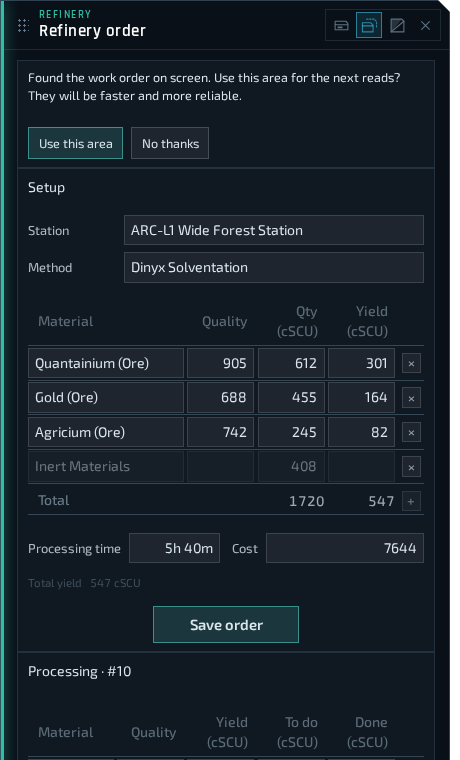
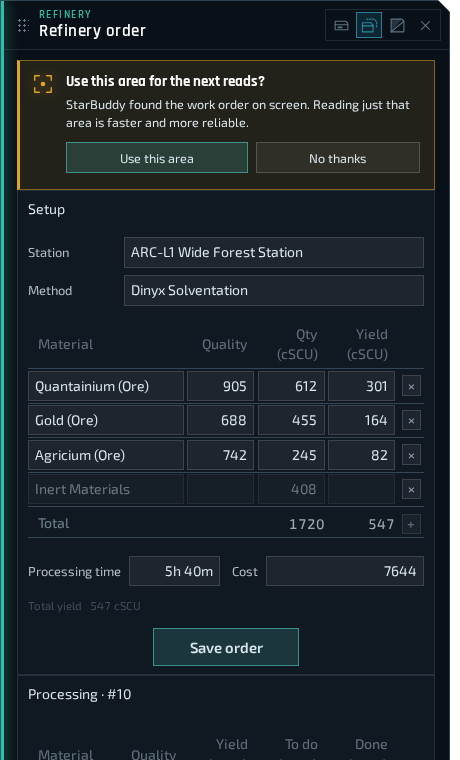
Help: the refinery area offer and guide as callout cards
Re-shot both refinery area screenshots (en+da) and named the cards and
their headings in Screen reading. The shot script no longer needs the
demo seed for client-only shots.

Claude-Session: https://claude.ai/code/session_01N8m5xeVdG9FyChw6HwAHkV

diff --git a/frontend/src/help/content/da/client-screen-reading.md b/frontend/src/help/content/da/client-screen-reading.md
@@ -22,15 +22,15 @@ På Windows viser en gul ramme om spillet, at vinduet bliver optaget. Windows 11
 
 ![Raffinaderivinduet tilbyder det område, det fandt](screens/client-refinery-area.png)
 
-Du behøver ikke indramme panelet selv. Første gang du trykker `F8`, læser klienten hele skærmen og finder arbejdsordren på dens tekst. Raffinaderivinduet spørger så, om det område skal bruges til de næste aflæsninger, som bliver hurtigere og mere sikre: tryk `Brug dette område` eller `Nej tak`. Stationens navn læses selv fra toppen af skærmen.
+Du behøver ikke indramme panelet selv. Første gang du trykker `F8`, læser klienten hele skærmen og finder arbejdsordren på dens tekst. Et ravgult kort øverst i raffinaderivinduet spørger så **Brug dette område til de næste aflæsninger?** Det er hurtigere og mere pålideligt kun at aflæse det område: tryk `Brug dette område` eller `Nej tak`. Stationens navn læses selv fra toppen af skærmen.
 
-Er panelet ikke helt på skærmen, gemmes intet, og vinduet siger, hvad der manglede, f.eks. bunden med **TOTAL COST** og **PROCESSING TIME**. Rul panelet eller gå tættere på, og tryk `F8` igen.
+Er panelet ikke helt på skærmen, gemmes intet. Et rødt kort, **Indram arbejdsordren**, siger, hvad der manglede, f.eks. bunden med **TOTAL COST** og **PROCESSING TIME**. Rul panelet eller gå tættere på, og tryk `F8` igen.
 
 ![Raffinaderivinduet, når panelets bund manglede](screens/client-refinery-guide.png)
 
 Vil du indramme det i hånden, så tryk `Vælg område` dér, eller gå til `Indstillinger` › `Skærmaflæsning` › **Raffinaderiordre-område** › `Indram område`. Træk fra titlen **WORK ORDER** ned til **TOTAL COST** og **PROCESSING TIME**, med hele materialetabellen indenfor.
 
-Flytter panelet sig senere ud af dit område, f.eks. efter et skift af opløsning, finder klienten det én gang på hele skærmen og spørger, om det skal bruges, hvor det er nu.
+Flytter panelet sig senere ud af dit område, f.eks. efter et skift af opløsning, finder klienten det én gang på hele skærmen og spørger **Brug, hvor arbejdsordren er nu?**
 
 ## Læs minescanninger
 

diff --git a/frontend/src/help/content/en/client-screen-reading.md b/frontend/src/help/content/en/client-screen-reading.md
@@ -22,15 +22,15 @@ On Windows a yellow border round the game shows that the window is being capture
 
 ![The refinery window offering the area it found](screens/client-refinery-area.png)
 
-You don't have to frame the panel yourself. The first time you press `F8`, the client reads the whole screen and finds the work order by its text. The refinery window then asks whether to use that area for the next reads, which are faster and more reliable: press `Use this area`, or `No thanks`. The station name is read from the top of the screen by itself.
+You don't have to frame the panel yourself. The first time you press `F8`, the client reads the whole screen and finds the work order by its text. An amber card at the top of the refinery window then asks **Use this area for the next reads?** Reads of just that area are faster and more reliable: press `Use this area`, or `No thanks`. The station name is read from the top of the screen by itself.
 
-If the panel isn't all on screen, nothing is saved and the window says what was missing, for example the bottom with **TOTAL COST** and **PROCESSING TIME**. Scroll the panel or move closer, and press `F8` again.
+If the panel isn't all on screen, nothing is saved. A red card, **Frame the work order**, says what was missing, for example the bottom with **TOTAL COST** and **PROCESSING TIME**. Scroll the panel or move closer, and press `F8` again.
 
 ![The refinery window when the panel's bottom was missing](screens/client-refinery-guide.png)
 
 To frame it by hand, press `Pick area` there, or go to `Settings` › `Screen reading` › **Refinery order area** › `Frame area`. Drag from the **WORK ORDER** title down to **TOTAL COST** and **PROCESSING TIME**, with the whole materials table inside.
 
-If the panel later moves out of your area, for example after a resolution change, the client finds it on the whole screen once and asks whether to use where it is now.
+If the panel later moves out of your area, for example after a resolution change, the client finds it on the whole screen once and asks **Use where the work order is now?**
 
 ## Read mining scans
 
